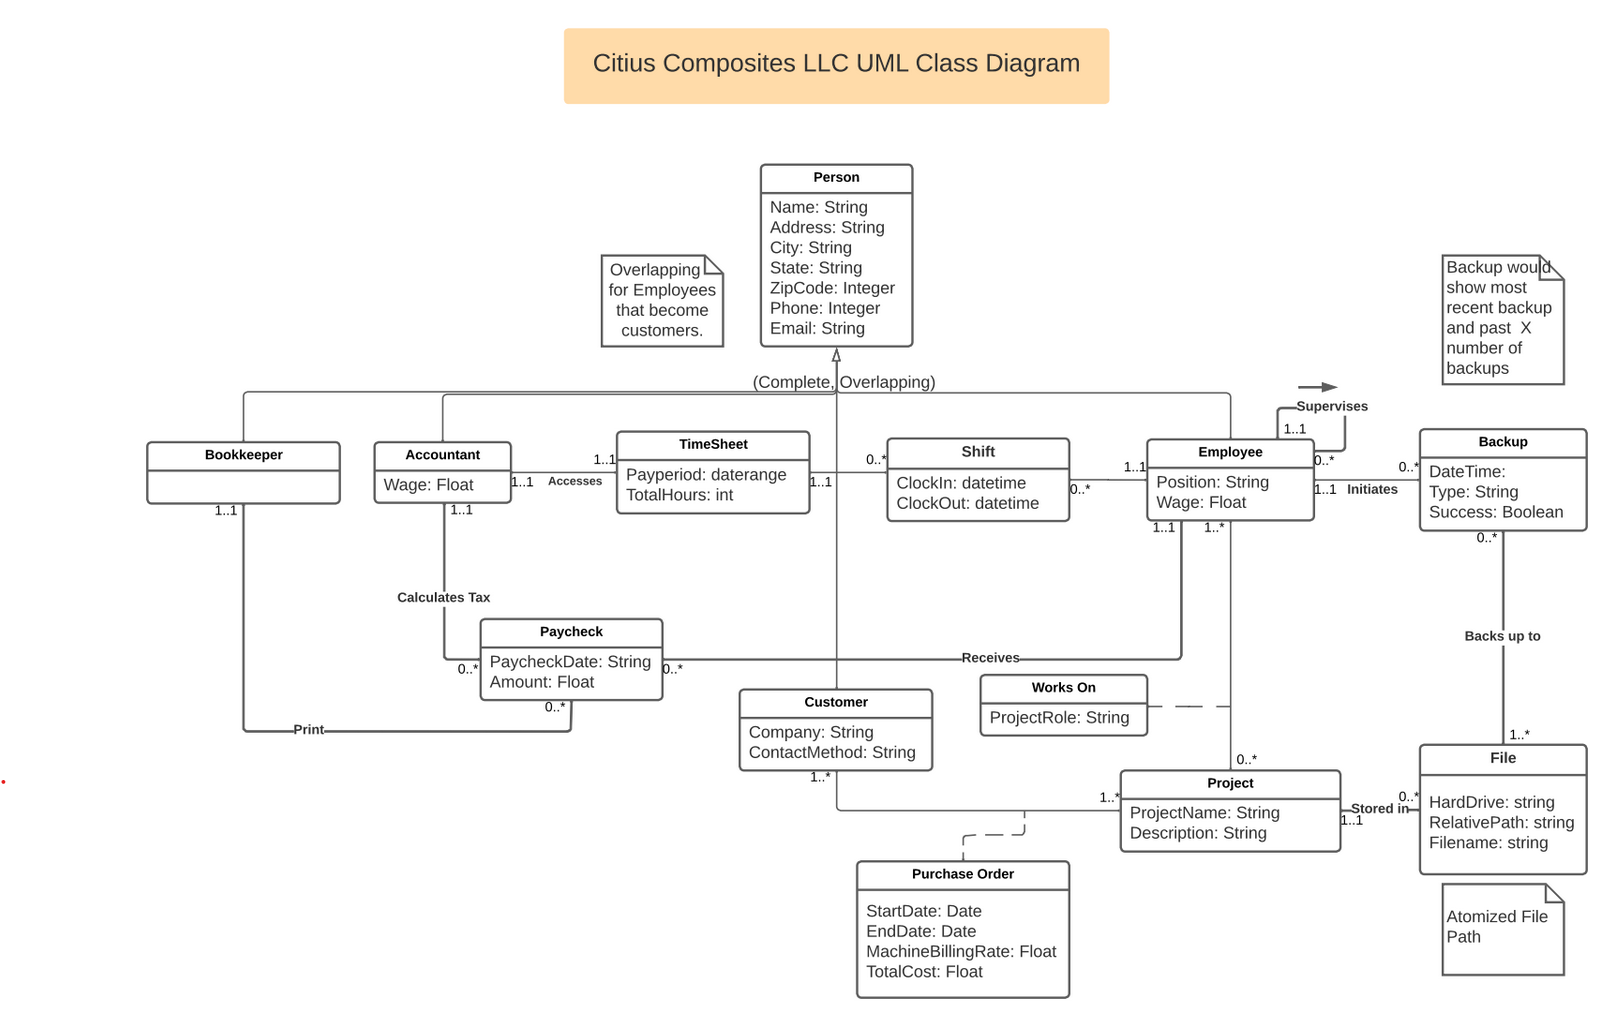
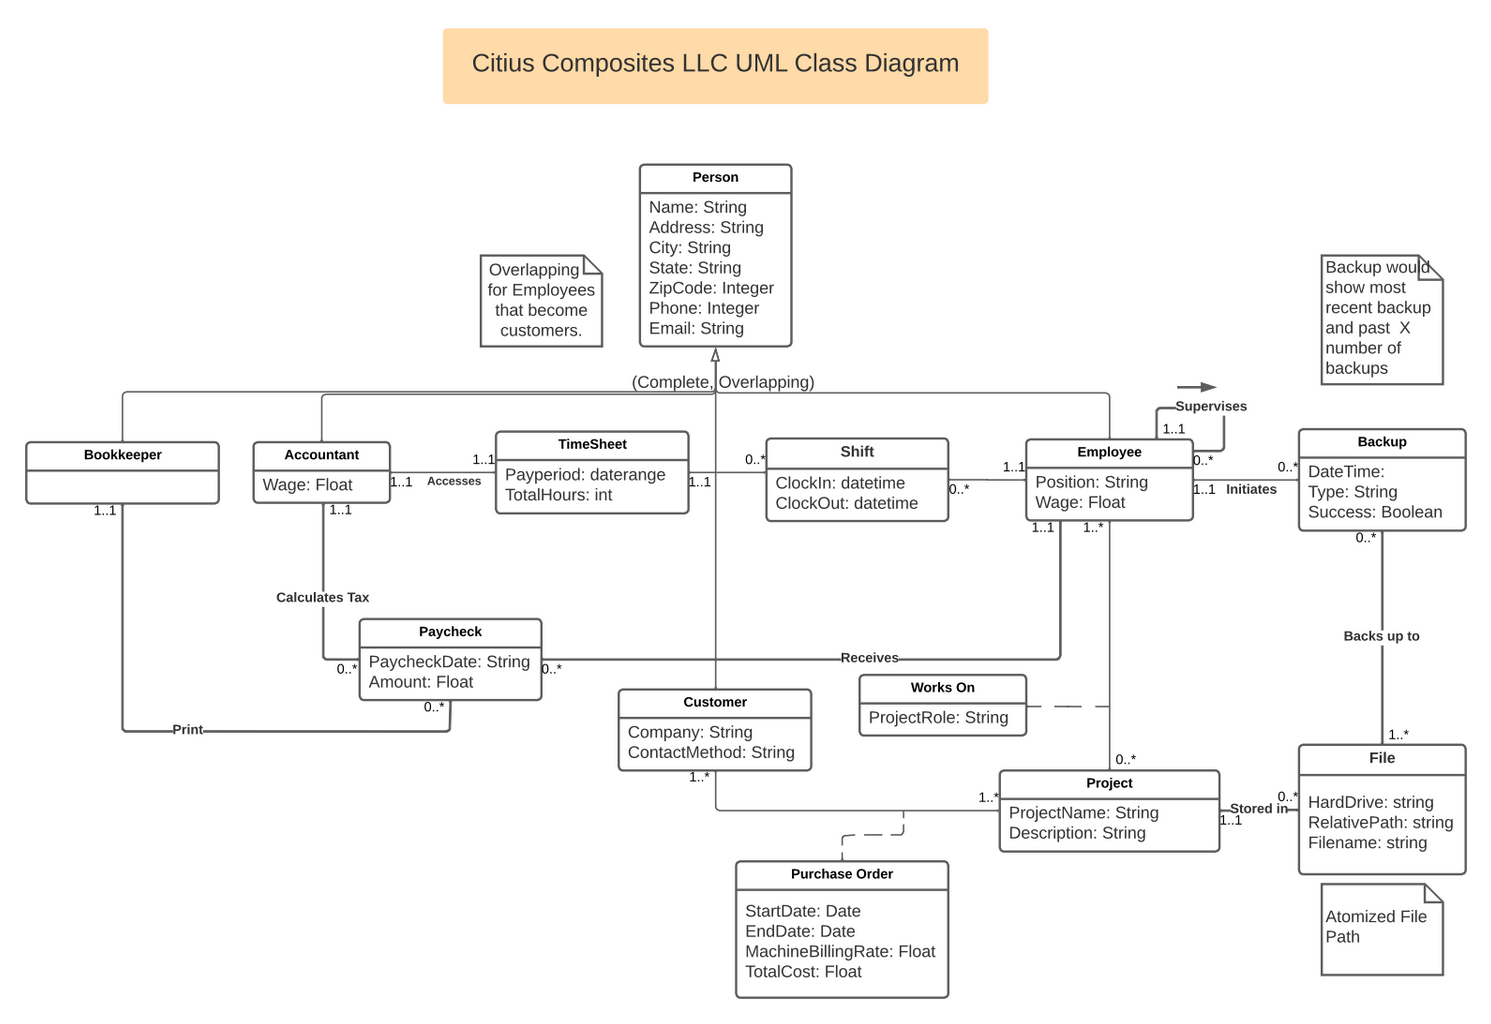
added udot, citius fixes, prescriber pages

diff --git a/project/isdepartment/index.html b/project/isdepartment/index.html
@@ -44,23 +44,17 @@
 				<!-- Main -->
 					<div id="main">
 						<div class="inner">
-							<h1>Citius Composites</h1>
-							<h2>2021, 2023 Provo, UT</h2>
-							<p>Citius Composites is a company in southern Idaho that does carbon composite molds and other projects for customers. Due to the small nature of their company,
-								 I had the opportunity to consult them, helping them to optimize with their system and process design.</p>
-							<span class="image main"><img src="/images/citius_report.png" alt="" /></span>
-							<p>As a result, a team of 3 other students and I provided a 43 page report on ways to improve the payroll, backup, and file organization systems they use, 
-								including many large CAD engineering files they were using but were not stored reliably and were susceptible to being lost.</p>
-							<span class="image main"><img src="/images/citius_diagram.png" alt="" /></span>
-							<p>We also created a class diagram to fully illustrate the full workings of the business and brainstorm how we could better improve operations within among employees.</p>
-							<p>Later on 2023, we were brought on again to look at some of the financial numbers for the business, build some financial forecasts and models and then give
-								recommendations for how to imrpove inventory management and change the scheduling for ordering new parts.</p>
-							<span id="citius-sheet" class="image main"><img src="/images/citius_financial_sheet.png" alt="" /></span>
-							<p>Accomplishments from this project include:</p>
-							<ul>
-								<li>Advised the business owner on new payroll, backup, and file organization systems decreasing project completion duration by 25%</li>
-								<li>Created financial forecasts and models for ordering inventory and influencing</li>
-							</ul>
+							<h1>BYU Information Systems Department Dashboard</h1>
+							<h2>2023 Provo, UT</h2>
+							<p>For a project management class, I created a small website that uses a Tableau dashboard to track the student employment
+                                 for a small campus office. In this case, it was the student employees that worked for the IS Department of which program
+                                  I was a part. It contained a Tableau dashboard that was public facing as well as an password-protected user interface 
+                                  that allowed an admin to add new students as employees or remove existing ones.</p>
+                            <span class="image main"><img src="/images/is_dept_dashboard.png" alt="A simple dashboard showing student employment data for the IS Department" /></span>
+                            <p>It also contained a list of all of the students and contact information for them.</p>
+                            <span class="image main" id="is-data-table"><img src="/images/is_dept_data_table.png" alt="A table showing student employment data for the IS Department" /></span>
+							<p>This project demonstrates data visualization skills, Django/Python backend development, and user interface design. The 
+                                entire project took me about two weeks to finish.</p>
 						</div>
 					</div>
 

diff --git a/project/udotdata/index.html b/project/udotdata/index.html
@@ -44,23 +44,14 @@
 				<!-- Main -->
 					<div id="main">
 						<div class="inner">
-							<h1>Citius Composites</h1>
-							<h2>2021, 2023 Provo, UT</h2>
-							<p>Citius Composites is a company in southern Idaho that does carbon composite molds and other projects for customers. Due to the small nature of their company,
-								 I had the opportunity to consult them, helping them to optimize with their system and process design.</p>
-							<span class="image main"><img src="/images/citius_report.png" alt="" /></span>
-							<p>As a result, a team of 3 other students and I provided a 43 page report on ways to improve the payroll, backup, and file organization systems they use, 
-								including many large CAD engineering files they were using but were not stored reliably and were susceptible to being lost.</p>
-							<span class="image main"><img src="/images/citius_diagram.png" alt="" /></span>
-							<p>We also created a class diagram to fully illustrate the full workings of the business and brainstorm how we could better improve operations within among employees.</p>
-							<p>Later on 2023, we were brought on again to look at some of the financial numbers for the business, build some financial forecasts and models and then give
-								recommendations for how to imrpove inventory management and change the scheduling for ordering new parts.</p>
-							<span id="citius-sheet" class="image main"><img src="/images/citius_financial_sheet.png" alt="" /></span>
-							<p>Accomplishments from this project include:</p>
-							<ul>
-								<li>Advised the business owner on new payroll, backup, and file organization systems decreasing project completion duration by 25%</li>
-								<li>Created financial forecasts and models for ordering inventory and influencing</li>
-							</ul>
+							<h1>UDOT Collision Data</h1>
+							<h2>2022 Provo, UT</h2>
+							<p>For a second INTEX exercise in my program, as a team of 3 individuals, we developed a web dashboard that 
+                                contained a database of car crashes within Utah complete with locations where they happened.</p>
+                            <span class="image main"><img src="/images/collisions.png" alt="" /></span>
+							<p>The data analytics section contained a model that predict the severity of a crash based on multiple factors. It also contained dashboard that summarized the data on a visual and interactable Tableau dashboard.</p>
+							<span class="image main"><img src="/images/collision_data_analytics.png" alt="" /></span>
+                            <p>The project included many technical skills related to database management, backend development, and data analytics.</p>
 						</div>
 					</div>
 

diff --git a/project/drugdata/index.html b/project/drugdata/index.html
@@ -44,23 +44,14 @@
 				<!-- Main -->
 					<div id="main">
 						<div class="inner">
-							<h1>Citius Composites</h1>
-							<h2>2021, 2023 Provo, UT</h2>
-							<p>Citius Composites is a company in southern Idaho that does carbon composite molds and other projects for customers. Due to the small nature of their company,
-								 I had the opportunity to consult them, helping them to optimize with their system and process design.</p>
-							<span class="image main"><img src="/images/citius_report.png" alt="" /></span>
-							<p>As a result, a team of 3 other students and I provided a 43 page report on ways to improve the payroll, backup, and file organization systems they use, 
-								including many large CAD engineering files they were using but were not stored reliably and were susceptible to being lost.</p>
-							<span class="image main"><img src="/images/citius_diagram.png" alt="" /></span>
-							<p>We also created a class diagram to fully illustrate the full workings of the business and brainstorm how we could better improve operations within among employees.</p>
-							<p>Later on 2023, we were brought on again to look at some of the financial numbers for the business, build some financial forecasts and models and then give
-								recommendations for how to imrpove inventory management and change the scheduling for ordering new parts.</p>
-							<span id="citius-sheet" class="image main"><img src="/images/citius_financial_sheet.png" alt="" /></span>
-							<p>Accomplishments from this project include:</p>
-							<ul>
-								<li>Advised the business owner on new payroll, backup, and file organization systems decreasing project completion duration by 25%</li>
-								<li>Created financial forecasts and models for ordering inventory and influencing</li>
-							</ul>
+							<h1>Prescription Drug Data</h1>
+							<h2>2021 Provo, UT</h2>
+							<p>Created a website to track prescription drug data for the state of Utah. This website was part of a contest to potentially track 
+                                the opioid crisis in Utah and create a digital database and user interface to properly combat this epidemic.</p>
+                            <span class="image main"><img src="/images/prescriber.png" alt="" /></span>
+                            <p>The project included many technical skills related to database management, backend development, and system design.</p>
+							<p>As a group of 3 individuals, we implemented a scalable technical solution, earning us 3rd place in this competition.</p>
+							<span class="image main"><img src="/images/prescriber_data_table.png" alt="" /></span>
 						</div>
 					</div>
 

diff --git a/assets/css/main.css b/assets/css/main.css
@@ -1785,6 +1785,17 @@ input, select, textarea {
 		margin-top: -1em;
 	}
 
+	#is-data-table, #citius-sheet {
+		display: inline-flex;
+		justify-content: center;
+		align-items: center;
+		max-width: 100%;
+	}
+	
+	#is-data-table > img, #citius-sheet > img {
+		max-width: 50rem;
+	}
+
 	@media screen and (max-width: 736px) {
 
 		header p {
